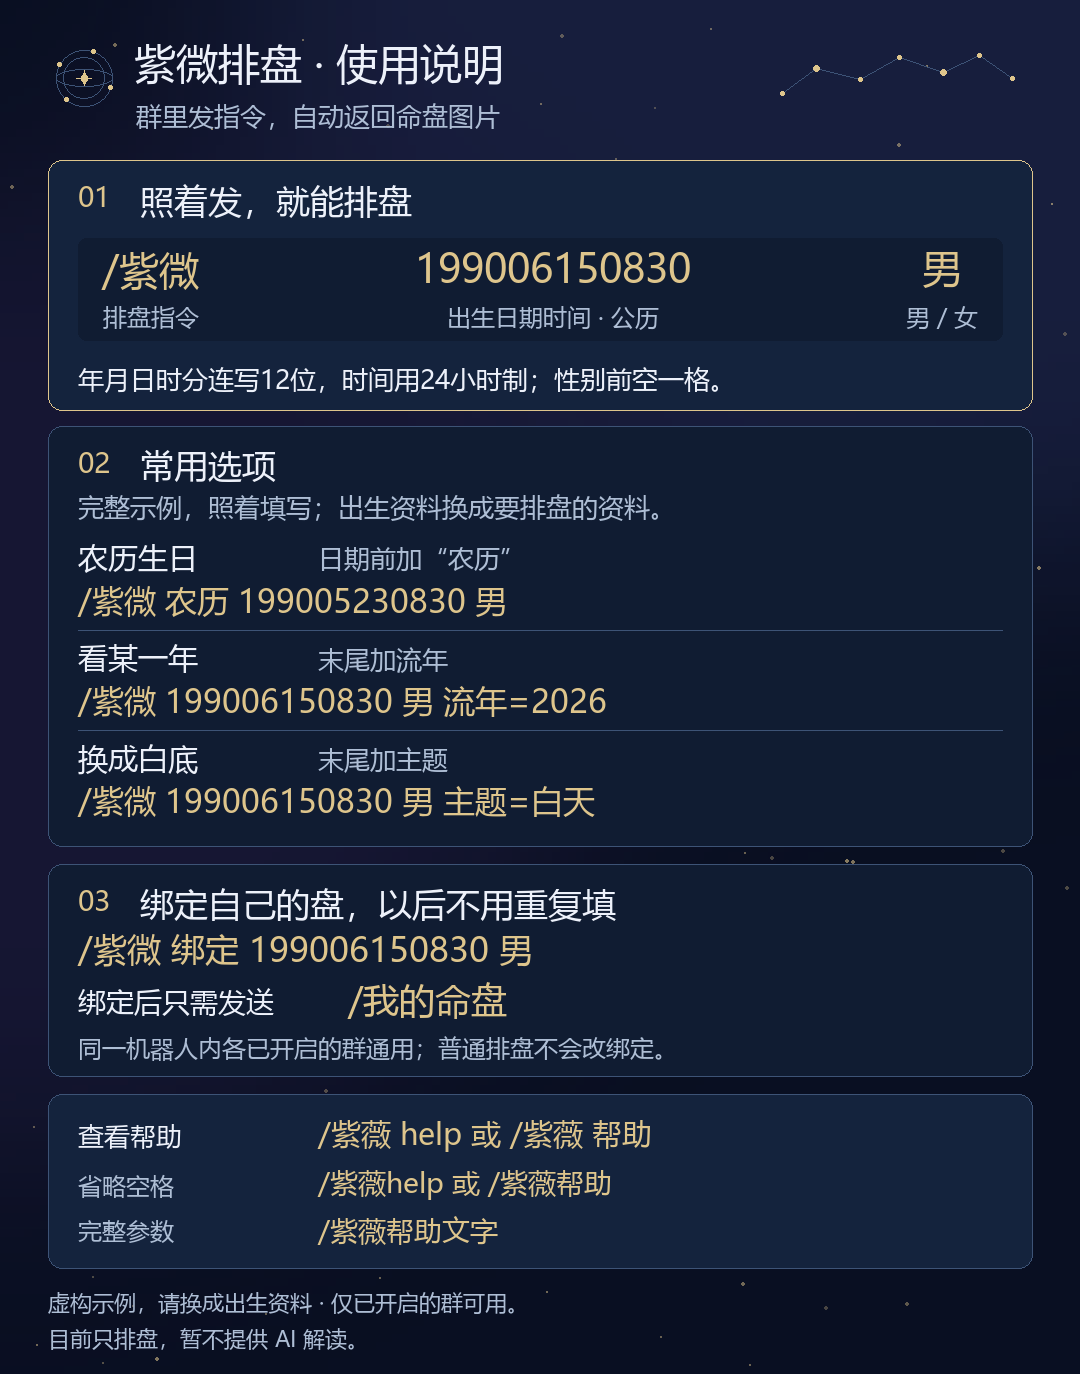
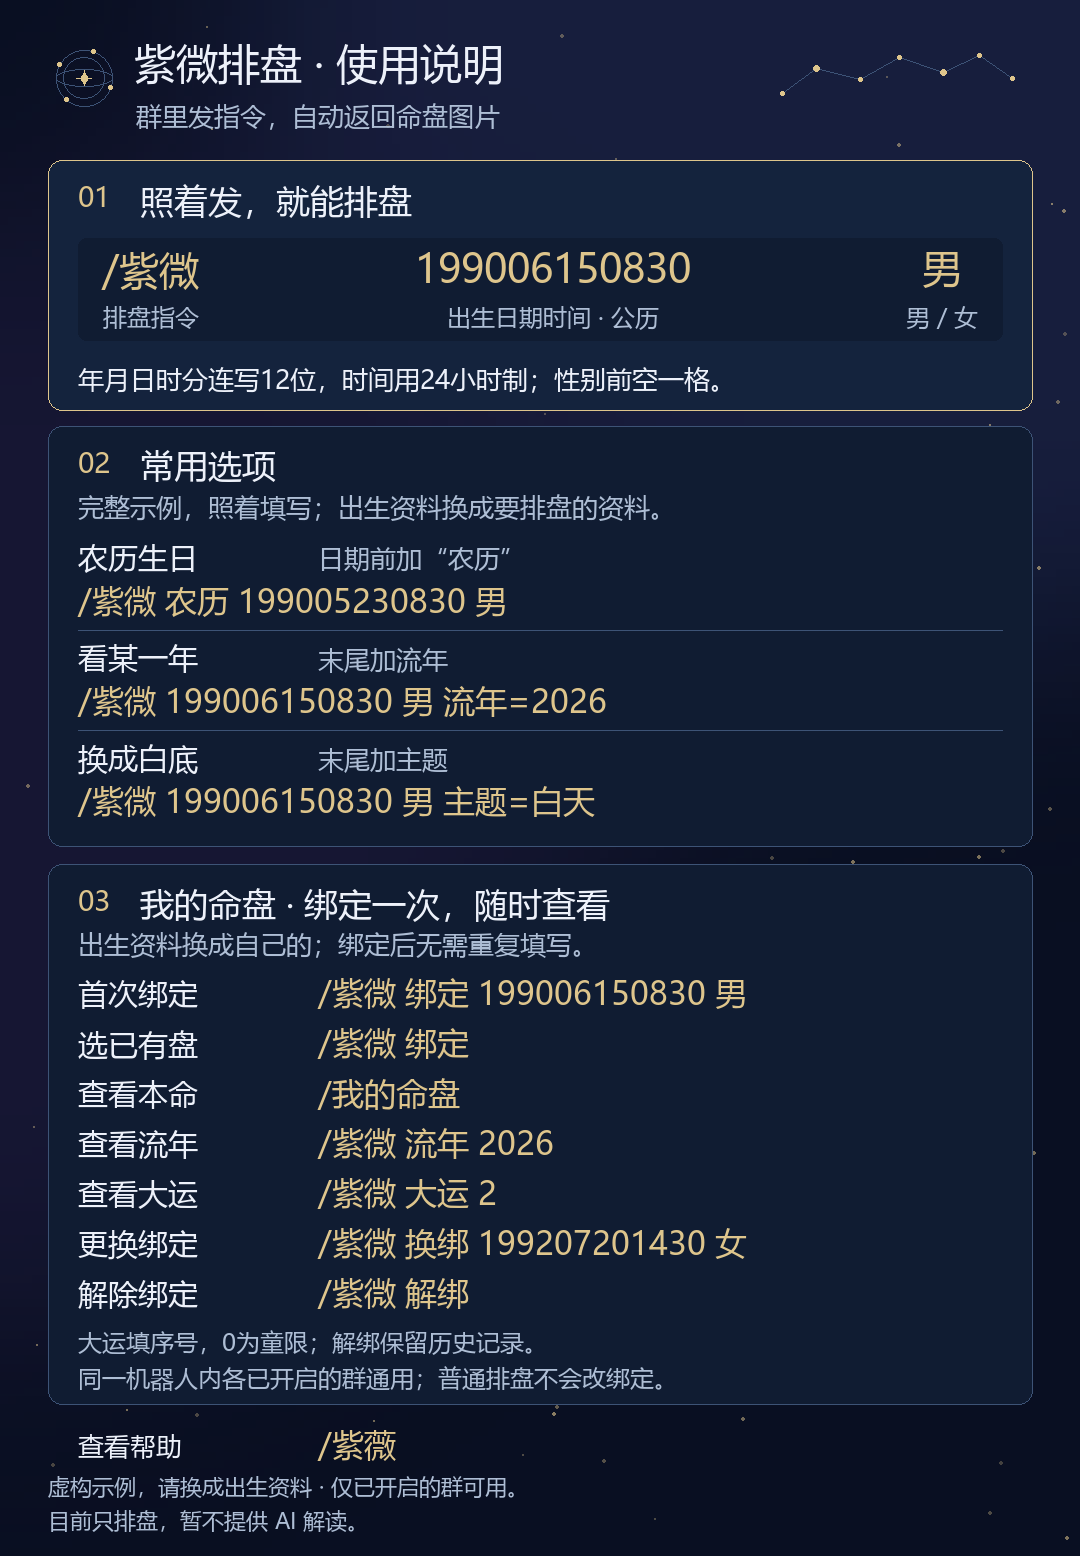
docs: 补全个人命盘帮助图并简化帮助入口
帮助图补齐绑定、选已有盘、本命、流年、大运、换绑和解绑的指令示例。
删除帮助别名和连写方式的详细图示，仅提示裸命令 /紫薇；既有入口继续兼容。
同步帮助模板、可分发预览及维护说明，版本保持 2.2.0。

验证：相关 77 项 pytest 通过（5.89 秒），90 个 Python 文件 Ruff 格式与检查通过。
昼夜各 46 处文字无重叠或越界，已核对夜间预览；六张命盘图字节未变。
仅本地验证，未推送或部署。

Changed region(s): [[0.0306, 0.0306, 0.9778, 1.0], [0.825, 0.1528, 0.9167, 0.2445]]

diff --git a/help_renderer.py b/help_renderer.py
@@ -3,18 +3,16 @@
 import io
 
 from .help_content import (
-    HELP_BIND_COMMAND,
     HELP_BIND_NOTE,
     HELP_BIRTH_FIELDS,
     HELP_BIRTH_NOTE,
     HELP_BIRTH_TITLE,
-    HELP_COMMANDS,
-    HELP_COMPACT_COMMANDS,
+    HELP_ENTRY_COMMAND,
     HELP_IMAGE_NOTES,
     HELP_INTRO,
-    HELP_MORE_COMMAND,
     HELP_OPTIONS,
     HELP_OPTIONS_NOTE,
+    HELP_PERSONAL_ACTIONS,
 )
 from .modern_renderer import Painter
 from .starfield import constellation, orbit
@@ -26,7 +24,7 @@ class HelpRenderer:
 
     def render(self, theme="night"):
         width, margin = 1080, 48
-        painter = Painter(width, 1374, self.font_path, theme)
+        painter = Painter(width, 1556, self.font_path, theme)
         p = painter.palette
         left, content_width = margin + 30, width - margin * 2 - 60
 
@@ -91,21 +89,19 @@ class HelpRenderer:
             if index < len(HELP_OPTIONS) - 1:
                 painter.rule(left, y + 86, content_width)
 
-        section("03", "绑定自己的盘，以后不用重复填", 864, 212)
-        painter.text(HELP_BIND_COMMAND, left, 934, 34, p.accent)
-        painter.text("绑定后只需发送", left, 988, 28, p.ink)
-        painter.text("/我的命盘", left + 270, 982, 36, p.accent)
-        painter.text(HELP_BIND_NOTE, left, 1036, 24, p.muted)
+        section("03", "我的命盘 · 绑定一次，随时查看", 864, 540)
+        painter.text("出生资料换成自己的；绑定后无需重复填写。", left, 932, 26, p.muted)
+        for index, (label, example) in enumerate(HELP_PERSONAL_ACTIONS):
+            y = 978 + index * 50
+            painter.text(label, left, y + 2, 30, p.ink)
+            painter.text(example, left + 240, y, 32, p.accent)
+        painter.text("大运填序号，0为童限；解绑保留历史记录。", left, 1330, 24, p.muted)
+        painter.text(HELP_BIND_NOTE, left, 1366, 24, p.muted)
 
-        painter.card(margin, 1094, width - margin * 2, 174, fill=p.center)
-        painter.text("查看帮助", left, 1124, 26, p.ink)
-        painter.text(" 或 ".join(HELP_COMMANDS), left + 240, 1120, 30, p.accent)
-        painter.text("省略空格", left, 1174, 24, p.muted)
-        painter.text(" 或 ".join(HELP_COMPACT_COMMANDS), left + 240, 1170, 28, p.accent)
-        painter.text("完整参数", left, 1220, 24, p.muted)
-        painter.text(HELP_MORE_COMMAND, left + 240, 1216, 28, p.accent)
+        painter.text("查看帮助", left, 1434, 26, p.ink)
+        painter.text(HELP_ENTRY_COMMAND, left + 240, 1430, 32, p.accent)
         for index, note in enumerate(HELP_IMAGE_NOTES):
-            painter.text(note, margin, 1292 + index * 36, 22, p.muted)
+            painter.text(note, margin, 1476 + index * 34, 22, p.muted)
 
         stream = io.BytesIO()
         painter.image.save(stream, format="PNG", optimize=True)

diff --git a/help_content.py b/help_content.py
@@ -20,6 +20,16 @@ HELP_OPTIONS = (
 HELP_OPTIONS_NOTE = "完整示例，照着填写；出生资料换成要排盘的资料。"
 HELP_BIND_COMMAND = f"/紫微 绑定 {DEMO_BIRTH}"
 HELP_BIND_NOTE = "同一机器人内各已开启的群通用；普通排盘不会改绑定。"
+HELP_PERSONAL_ACTIONS = (
+    ("首次绑定", HELP_BIND_COMMAND),
+    ("选已有盘", "/紫微 绑定"),
+    ("查看本命", "/我的命盘"),
+    ("查看流年", "/紫微 流年 2026"),
+    ("查看大运", "/紫微 大运 2"),
+    ("更换绑定", "/紫微 换绑 199207201430 女"),
+    ("解除绑定", "/紫微 解绑"),
+)
+HELP_ENTRY_COMMAND = "/紫薇"
 HELP_COMMANDS = ("/紫薇 help", "/紫薇 帮助")
 HELP_COMPACT_COMMANDS = ("/紫薇help", "/紫薇帮助")
 HELP_MORE_COMMAND = "/紫薇帮助文字"
@@ -81,6 +91,7 @@ HELP_SECTIONS = (
     (
         "更多指令",
         (
+            (HELP_ENTRY_COMMAND, "直接查看帮助图片。"),
             (
                 "/紫微 图谱 <出生日期时间> <性别>",
                 "也可用 /人生；返回已有规则计算的人生图谱，无 AI 解读。",

diff --git a/AGENTS.md b/AGENTS.md
@@ -4,7 +4,7 @@
 
 单独打开本仓库时，先读取 `../AGENTS.md` 及共享开发基准；独立 worktree 需提供实际基准路径。
 
-当前产品范围（2.1.0，2026-11-05）：支持指令排盘、原有指令版人生图谱及管理员控制台。控制台按用户本次要求提供配置保存、页面排盘和群友起盘记录，使用 AstrBot 后台身份认证；页面排盘独立记录为后台来源，不伪造消息事件或群友身份，不修改群授权、不向群发送。命盘与帮助使用星空模板。默认示例采用 `YYYYMMDDHHMM 性别`，出生日期时间连写为一项，兼容原有写法。帮助图展示基础指令与常用选项的完整示例，管理员操作与完整参数保留在文字帮助。帮助入口展示 `/紫薇 help`、`/紫薇 帮助`，必须兼容省空格写法及原别名；仅识别完整帮助词，遵守框架唤醒状态，不能误接管普通聊天或重复回复。暂不注册任何 LLM 工具、对话钩子或 AI 辅助定盘入口，也不启动或恢复历史后台总结。保留历史档案和离线兼容模块；下列 AI、额度、定盘和反馈规范只约束保留代码或未来用户明确要求恢复的功能，不能据此自行重新开放 AI。新安装默认夜间星空，升级保留已有显式主题设置。
+当前产品范围（2.2.0，2026-11-06）：支持指令排盘、原有指令版人生图谱及管理员控制台。控制台按用户本次要求提供配置保存、页面排盘和群友起盘记录，使用 AstrBot 后台身份认证；页面排盘独立记录为后台来源，不伪造消息事件或群友身份，不修改群授权、不向群发送。命盘与帮助使用星空模板。默认示例采用 `YYYYMMDDHHMM 性别`，出生日期时间连写为一项，兼容原有写法。帮助图展示基础指令与常用选项的完整示例，管理员操作与完整参数保留在文字帮助。帮助图展示个人盘的绑定、选择、查看、流年、大运、换绑与解绑示例；帮助入口只提示 `/紫薇`，完整帮助词及省空格写法、原别名继续兼容；仅识别完整帮助词，遵守框架唤醒状态，不能误接管普通聊天或重复回复。暂不注册任何 LLM 工具、对话钩子或 AI 辅助定盘入口，也不启动或恢复历史后台总结。保留历史档案和离线兼容模块；下列 AI、额度、定盘和反馈规范只约束保留代码或未来用户明确要求恢复的功能，不能据此自行重新开放 AI。新安装默认夜间星空，升级保留已有显式主题设置。
 
 - 插件标识、目录和仓库名称统一为 `astrbot_plugin_ziwei`。
 - `engine.py` 保持纯计算，输入与输出使用一基地支索引；历法、安星、渲染和 AstrBot 适配分层。

diff --git a/references/IMPLEMENTATION.md b/references/IMPLEMENTATION.md
@@ -4,6 +4,8 @@
 
 ## 分层
 
+2026-11-06 补全个人命盘帮助图：`HELP_PERSONAL_ACTIONS` 提供七种操作的标签与完整示例，`help_renderer.py` 按统一两列对齐绘制；大运序号、童限及解绑保留历史使用短句说明。移除图片中的帮助别名、连写和文字模式专用卡，只提示裸命令 `/紫薇`。完整文字帮助及所有原有入口继续兼容，命令处理与绑定逻辑未改动。
+
 2.2.0 增加个人本命盘绑定。`personal_store.py` 在原档案数据库添加 `personal_bindings` 和 `binding_changes`，与命盘归档共用锁和事务；原档案 v5 表及历史任务不改动。主键为真实平台实例＋用户账号，每个账号一份当前绑定，允许本人在该实例各已开启群使用。普通群档案的 owner 和查询条件继续隔离；本人绑定列表只跨群选择有真实账号记录的条目，旧档案仅通过当前群 owner 哈希核验。后台代绑可显式选取已有记录或填写出生资料，但不构造聊天事件，也不改变群白名单。
 
 `personal_commands.py` 只识别明确的绑定、换绑、解绑、我的命盘、流年和大运命令边界；`/我的命盘` 另有标准 GreedyStr 入口，省空格写法复用唤醒过滤器，不争抢标准入口或普通聊天。`personal_service.py` 先捕获真实事件，再检查当前群授权，才读取或修改个人绑定；排队、计算及渲染后重新检查授权和绑定版本。共享排队槽位，取消时等待计算线程结束，输入不进入 KV 或日志。

diff --git a/VERIFICATION.md b/VERIFICATION.md
@@ -1,5 +1,13 @@
 # 本地验证记录
 
+## 2.2.0 帮助图补全个人命盘操作（2026-11-06）
+
+- 个人命盘区域补齐首次绑定、选已有盘、查看本命、查看流年、查看大运、更换绑定、解除绑定七项指令，统一标签与示例对齐；增加大运序号、童限、解绑保留历史的简短说明。
+- 图片移除 `/紫薇 help`、`/紫薇 帮助` 及省空格、文字帮助的详细说明，只保留 `/紫薇` 作为查看帮助的入口。既有帮助别名、命令解析和个人绑定功能保持原行为。
+- 帮助、纯指令入口和项目检查 **77 项通过**（5.89 秒）；90 个 Python 文件通过 Ruff 格式和静态检查。昼夜图片的全部文字框均无重叠或越界，已目视核对夜间帮助图。更新 `assets/preview-help.png` 至 1080×1556；六张命盘模板重新生成后字节未变。
+
+仅本地验证及提交，未推送或部署；版本保持 2.2.0。
+
 ## 2.2.0 个人命盘绑定与后台代管（2026-11-06）
 
 - 全量 **1,116 项测试通过**（52.70 秒，无警告），90 个 Python 文件通过 Ruff 格式及静态检查；`git diff --check` 通过。
